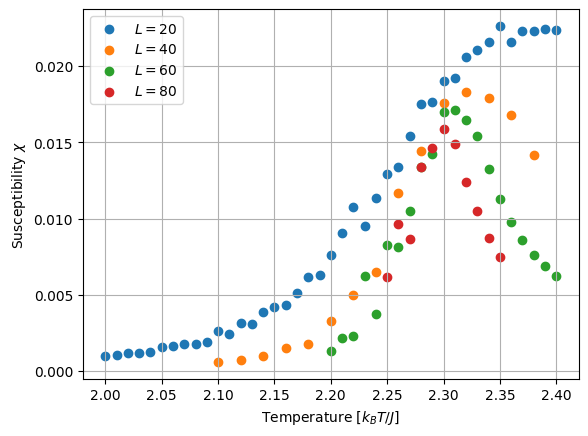
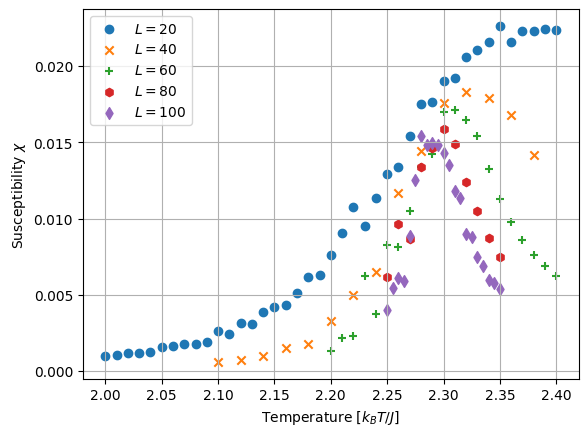
t plot with 100git add --all

diff --git a/project4/results/plot_Tfunctions.py b/project4/results/plot_Tfunctions.py
@@ -6,12 +6,15 @@ lattice20=pd.read_csv("data/lattice20", index_col=False, sep="\s+",names=["T","E
 lattice40=pd.read_csv("data/lattice40", index_col=False, sep="\s+",names=["T","E","Cv","M","Chi","|M|"])
 lattice60=pd.read_csv("data/lattice60", index_col=False, sep="\s+",names=["T","E","Cv","M","Chi","|M|"])
 lattice80=pd.read_csv("data/lattice80", index_col=False, sep="\s+",names=["T","E","Cv","M","Chi","|M|"])
+lattice100=pd.read_csv("data/lattice100", index_col=False, sep="\s+",names=["T","E","Cv","M","Chi","|M|"])
+
 
 plt.figure()
 plt.scatter(lattice20['T'], lattice20['Chi']/(20*20), label=r'$L=20$')
-plt.scatter(lattice40['T'], lattice40['Chi']/(40*40), label=r'$L=40$')
-plt.scatter(lattice60['T'], lattice60['Chi']/(60*60), label=r'$L=60$')
-plt.scatter(lattice80['T'], lattice80['Chi']/(80*80), label=r'$L=80$')
+plt.scatter(lattice40['T'], lattice40['Chi']/(40*40), marker="x", label=r'$L=40$')
+plt.scatter(lattice60['T'], lattice60['Chi']/(60*60), marker="+", label=r'$L=60$')
+plt.scatter(lattice80['T'], lattice80['Chi']/(80*80), marker="h", label=r'$L=80$')
+plt.scatter(lattice100['T'], lattice100['Chi']/(100*100), marker="d", label=r'$L=100$')
 plt.xlabel(r'Temperature [$k_BT/J$]')
 plt.ylabel(r'Susceptibility $\chi$')
 plt.grid()
